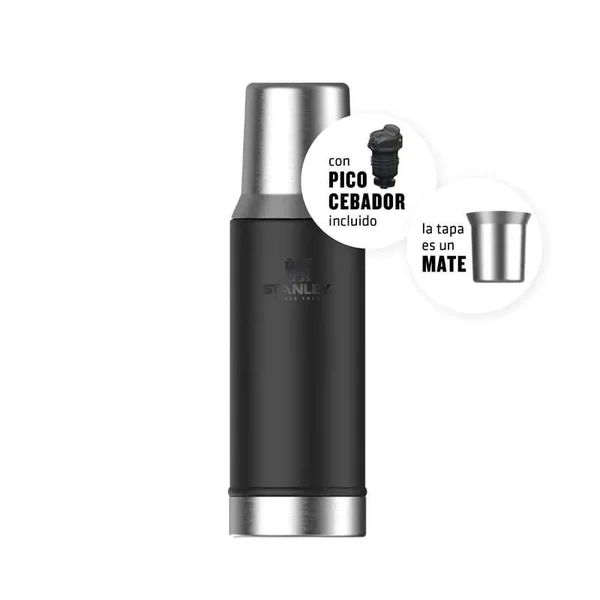
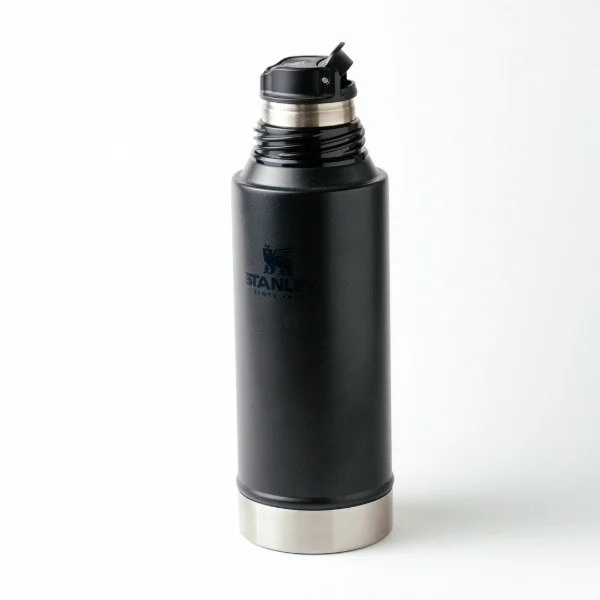
fix: imagenes limpias, producto Terra real, error en checkbox y README
- Stanley Mate System: nueva URL (toromates) sin overlays promocionales
- Lumilagro Senderito (modelo inexistente) reemplazado por Terra 600cc
- mostrarError: inserta el span fuera del <label> envoltorio para que
  el error del checkbox de terminos quede debajo del label, no dentro
- README: detalle de la carpeta de imagenes y seccion de regeneracion

Changed region(s): [[0.36, 0.06, 1.0, 0.93], [0.69, 0.33, 0.9, 0.48]]

diff --git a/app.js b/app.js
@@ -62,15 +62,15 @@ const PRODUCTOS = [
     },
     {
         id: 4,
-        nombre: 'Senderito 0.5L',
+        nombre: 'Terra 600cc',
         marca: 'Lumilagro',
-        capacidad: '500 ml',
-        material: 'Plastico con interior de vidrio',
-        precio: 22000,
+        capacidad: '600 ml',
+        material: 'Plastico con ampolla de vidrio',
+        precio: 19500,
         stock: 30,
         badge: null,
-        imagen: 'productos-imagenes/lumilagro-senderito-500.webp',
-        descripcion: 'Termo compacto para llevar al trabajo o caminata. Liviano y de tamaño ideal para uso individual.'
+        imagen: 'productos-imagenes/lumilagro-terra-600.webp',
+        descripcion: 'Termo compacto de 600cc, ideal para llevar en la mochila. Ampolla de vidrio con sistema de doble pared al vacio.'
     },
     {
         id: 5,
@@ -201,9 +201,12 @@ const limpiarErrores = () => {
 const mostrarError = (input, mensaje) => {
     input.classList.add('con-error');
     const span = crearElemento('span', 'form__error', mensaje);
-    /* .after() inserta el span como hermano siguiente del input.
-       Usar createElement + textContent en lugar de innerHTML evita inyeccion. */
-    input.after(span);
+    /* Si el input esta envuelto en un <label> (como el checkbox de
+       terminos), insertamos el error despues del label completo,
+       no entre el input y el texto del label. */
+    const labelEnvoltorio = input.closest('label');
+    const anchor = labelEnvoltorio || input;
+    anchor.after(span);
 };
 
 const validarFormulario = (evento) => {

diff --git a/scripts/descargar_imagenes.py b/scripts/descargar_imagenes.py
@@ -59,8 +59,8 @@ PRODUCTOS = [
         "marca": "Stanley",
         "nombre": "Mate System 800ml",
         "archivo": "stanley-mate-system.webp",
-        # stanley1913.ar (VTEX assets, 800px)
-        "url": "https://stanleypm.vtexassets.com/arquivos/ids/159318-800-auto?v=638742945237100000&width=800&height=auto&aspect=true",
+        # toromates.com (CloudFront CDN, fondo blanco limpio sin overlays)
+        "url": "https://d22fxaf9t8d39k.cloudfront.net/2d7a318615646fc671f800523359db5a35888724eab8c7875c2538a0b2f54e7b40982.jpg",
     },
     {
         "marca": "Lumilagro",
@@ -71,10 +71,10 @@ PRODUCTOS = [
     },
     {
         "marca": "Lumilagro",
-        "nombre": "Senderito 500ml",
-        "archivo": "lumilagro-senderito-500.webp",
-        # eltiovende.com (retailer AR, fondo blanco)
-        "url": "https://www.eltiovende.com/wp-content/uploads/2023/05/LM-45451-optimized.jpg",
+        "nombre": "Terra 600cc",
+        "archivo": "lumilagro-terra-600.webp",
+        # lumilagro.com.ar (sitio oficial, imagen Terra verde 800x800)
+        "url": "https://www.lumilagro.com.ar/wp-content/uploads/2020/12/terraverde1-800x800.jpg",
     },
     {
         "marca": "Waicom",

diff --git a/README.md b/README.md
@@ -46,8 +46,12 @@ termoshop/
 ├── docs/
 │   ├── PR.md                Template del Pull Request (lo lleno yo durante el desarrollo)
 │   └── prompts-usados.md    Log cronologico de prompts a Claude Code
-└── productos-imagenes/      6 webp optimizados (<100KB c/u)
+├── scripts/
+│   └── descargar_imagenes.py  Descarga + optimiza las imagenes (Pillow + requests)
+└── productos-imagenes/      6 webp 600x600 RGB, total ~45 KB
 ```
+
+Las imagenes de `productos-imagenes/` fueron descargadas desde sitios oficiales/retailers y optimizadas por `scripts/descargar_imagenes.py` (Pillow + requests). El producto Waicom Premium 1L usa un placeholder generado por el script porque la marca es regional y no tiene presencia online publica.
 
 ## Checklist de requisitos (36 items)
 
@@ -99,6 +103,18 @@ termoshop/
 - [x] `formatearPrecio` arrow con `Intl.NumberFormat('es-AR', { style: 'currency', currency: 'ARS' })`
 - [x] Demos: `.map`, `.filter`, `.find`, `.reduce`, `filter + map` y `filter + reduce` encadenados
 - [x] `console.table(PRODUCTOS)`
+
+## Regenerar imagenes
+
+Si necesitas regenerar las imagenes de productos:
+
+```bash
+python scripts/descargar_imagenes.py
+# para forzar la redescarga aunque ya existan:
+python scripts/descargar_imagenes.py --force
+```
+
+El script requiere `Pillow` y `requests` (`pip install Pillow requests`).
 
 ## Autor
 
